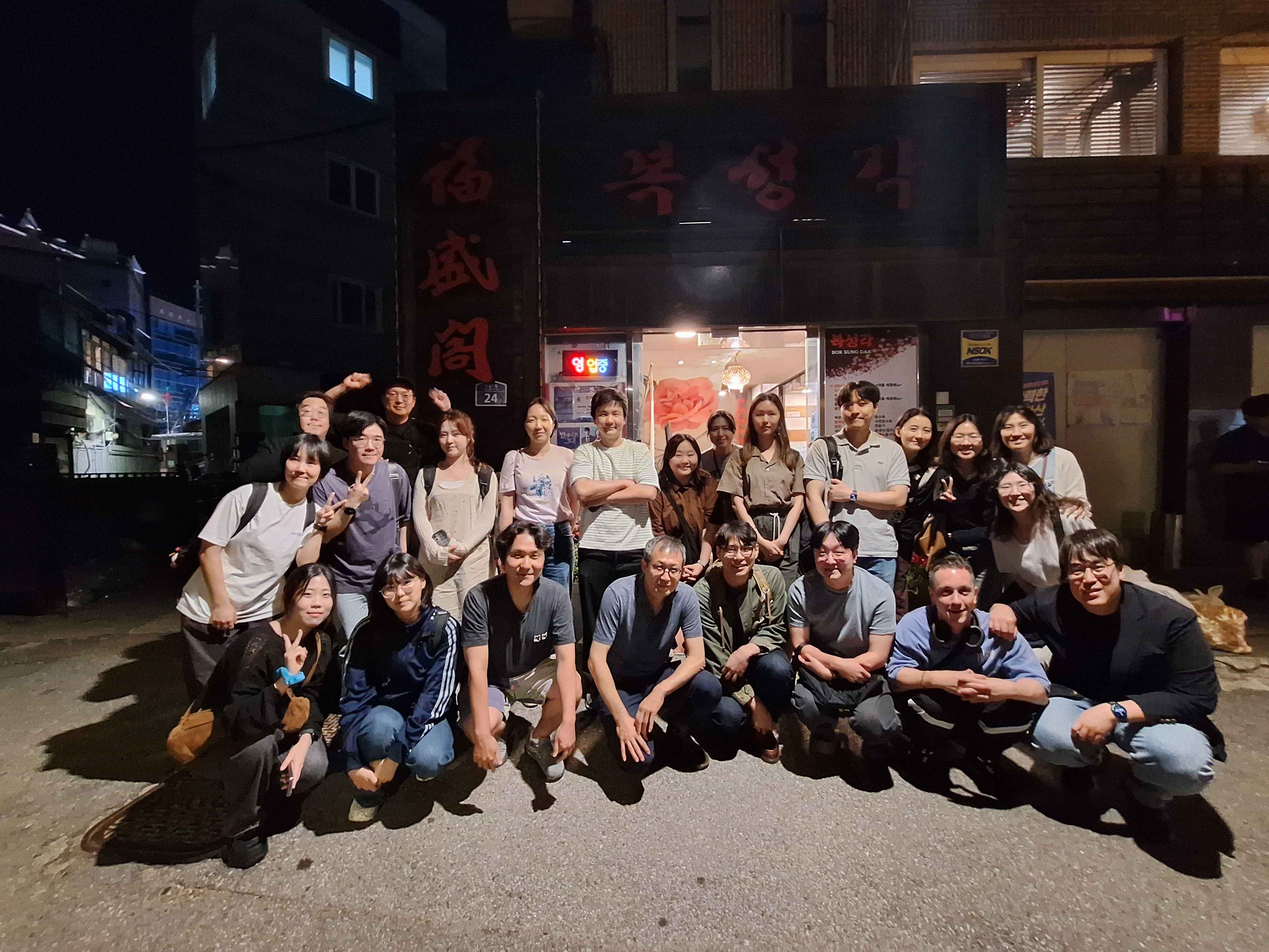
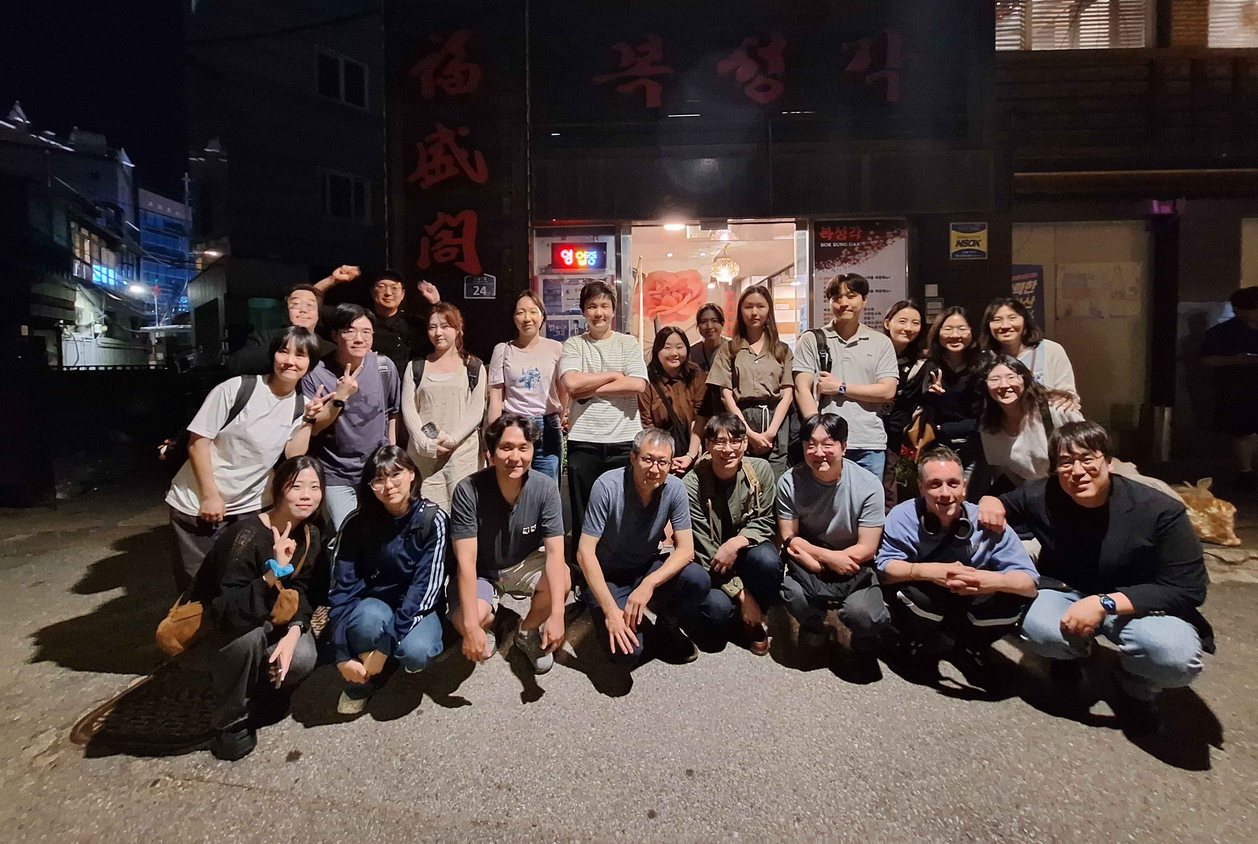
update

diff --git a/index.html b/index.html
@@ -167,6 +167,11 @@
           </div>
           <ul class="list news-row" aria-label="News list">
             <li class="news-item">
+              <div class="date">August 4th, 2026</div>
+              <div class="title">New Paper!</div>
+              <div class="desc">"Beyond Faces: The Effect of Context on Ensemble Emotion Perception" has been accepted for publication in Attention, Perception, & Psychophysics. Congratulations!</div>
+            </li>
+            <li class="news-item">
               <div class="date">July 23th, 2026</div>
               <div class="title">Congratulations!</div>
               <div class="desc">Cheongil has been appointed as an Assistant Professor in the Department of Psychology at Jeonbuk National University. Congratulations, Cheongil!</div>
@@ -175,11 +180,6 @@
               <div class="date">May 30th, 2026</div>
               <div class="title">New Paper!</div>
               <div class="desc">"The sense of agency is reduced by stimulus variability but has a limited effect on perceived variability," is accepted for publication in Psychological Research. Congratulations Yunsoo!</div>
-            </li>
-            <li class="news-item">
-              <div class="date">March 8th, 2026</div>
-              <div class="title">New Paper!</div>
-              <div class="desc">"The Visual Nature of Social Interaction and Its Impact on Overall Mood Judgments," is accepted for publication in Cognition and Emotion. Congratulations Lijeong!</div>
             </li>
 
           </ul>

diff --git a/openJC.html b/openJC.html
@@ -262,6 +262,7 @@
   (() => {
     // ── Schedule data: add / edit rows here ──
     const SCHEDULE = [
+      { date: 'Monday, August 10, 2:00 PM', presenter: 'Jeunghwan', paper: 'Lukashevich, A., Utochkin, I., Hansmann-Roth, S., & Sigurdardottir, H. M. (2026). Orientation ensemble perception is highly dependent on spatial attention. International Journal of Psychophysiology, 113439.', doi: 'https://www.sciencedirect.com/science/article/abs/pii/S0167876026001224?via%3Dihub', mode: 'in-person' },
       { date: 'Monday, July 20, 2:00 PM', presenter: 'Cheongil', paper: 'Haskins, A. J., Packard, K. O., & Robertson, C. E. (2026). Conceptual priorities shape individual gaze patterns during naturalistic visual attention. Proceedings of the National Academy of Sciences, 123(24), e2604369123.', doi: 'https://www.pnas.org/doi/abs/10.1073/pnas.2604369123', mode: 'in-person' },
       { date: 'Monday, July 13, 2:00 PM', presenter: 'Sion', paper: 'Özden, M., & Yıldırım, E. (2026). How emotional affinity modulates eye movements in concealed information detection. Current Psychology, 45(12), 1123.', doi: 'https://link.springer.com/article/10.1007/s12144-026-09684-4', mode: 'online' },
       { date: 'Monday, July 6, 2:00 PM', presenter: 'Sang Chul', paper: 'Cowen, A. S., Keltner, D., Schroff, F., Jou, B., Adam, H., & Prasad, G. (2021). Sixteen facial expressions occur in similar contexts worldwide. Nature, 589(7841), 251-257.', doi: 'https://www.nature.com/articles/s41586-020-3037-7', mode: 'in-person' },

diff --git a/photos.html b/photos.html
@@ -79,6 +79,10 @@
         <div class="card content-card">
           <div class="photo-grid">
             <figure class="photo-tile">
+              <figcaption>2026.07.30 VCC Lab Conference</figcaption>
+              <img src="./assets/img/photos/2607_LabConference.jpg" style="width:100%;height:100%;object-fit:cover;">
+            </figure>
+            <figure class="photo-tile">
               <figcaption>2026.06.05 The First VCC Homecoming</figcaption>
               <img src="./assets/img/photos/2606_Homecoming.jpg" style="width:100%;height:100%;object-fit:cover;">
             </figure>

diff --git a/assets/css/style.css b/assets/css/style.css
@@ -577,12 +577,12 @@ footer{
 }
 .photo-tile img {
   width: 100%;
-  aspect-ratio: 4 / 3;
+  aspect-ratio: 16 / 9;
   object-fit: cover;
   display: block;
 }
 .photo-ph{
-  aspect-ratio: 4 / 3;
+  aspect-ratio: 16 / 9;
   background:
     linear-gradient(135deg, var(--blue-weak), transparent 55%),
     linear-gradient(225deg, var(--green-weak), transparent 55%),
